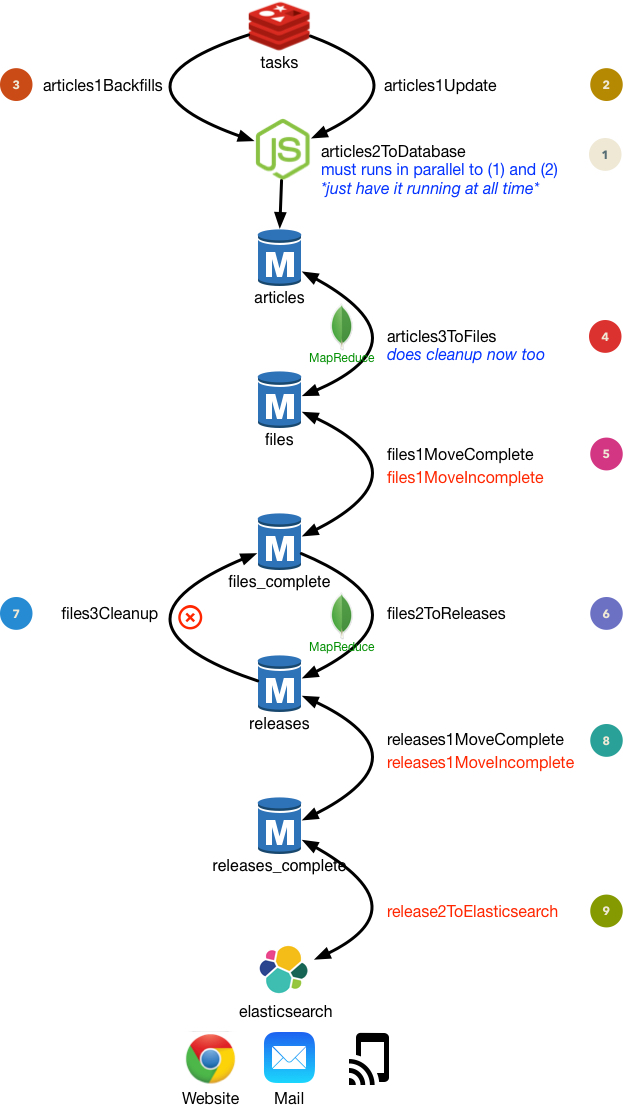
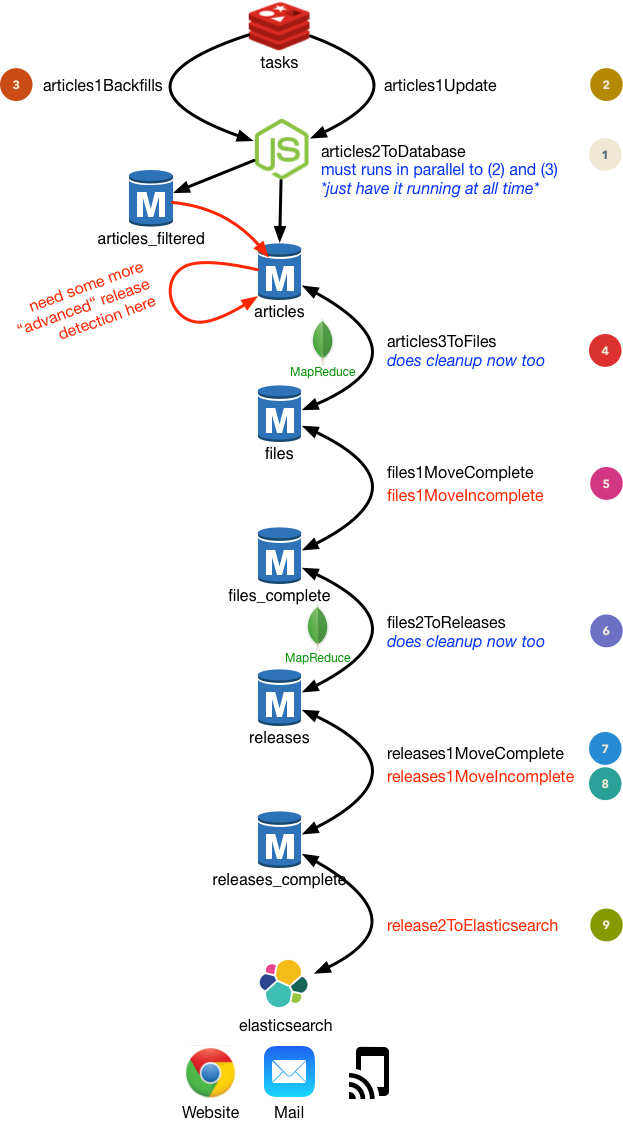
got rid of cleanup scripts

diff --git a/files2ToReleases.js b/files2ToReleases.js
@@ -1,9 +1,11 @@
+require('./lib/config');
 require('./lib/logger'); // configure global logger
 const log = global.log.child({
 	file: __filename.split(/[\\/]/).pop()
 });
 const database = require('./lib/database');
 let mongoclient;
+const started = new Date();
 
 function mapper() {
 	var mapObject = {
@@ -42,6 +44,7 @@ function reducer(key, values) {
 
 function finalizer(key, reducedObject) {
 	reducedObject.filecount = reducedObject.files.length;
+	reducedObject.modified = new Date();
 	return reducedObject;
 };
 
@@ -76,12 +79,56 @@ database.connect(function (db) {
 function done(err, resultcollection) {
 	log.info('Finished: mapReduce');
 	if (err) {
-		return console.log(err)
-	};
+		return log.error('ERROR!!!', err);
+	}
 	if (resultcollection) {
-		resultcollection.count(function (err, count) {
-			log.info('Result: created', count, 'releases');
-			mongoclient.close();
-		});
+		return cleanup(resultcollection);
 	}
 }
+
+function cleanup(resultcollection) {
+	resultcollection.count(function (err, count) {
+		if (err) {
+			return log.error(error);
+		}
+		let deletes = [];
+		log.info('Result: created/updateted', count, 'files');
+		log.info('Starting: cleanup');
+		let test = 0;
+		if (count > 0) {
+			const cursor = resultcollection.find({
+				'value.modified': {
+					$gte: started
+				}
+			});
+			cursor.forEach(function (release) {
+				release.value.files.forEach((file) => {
+					test++;
+					deletes.push({
+						deleteOne: {
+							filter: {
+								_id: file._id
+							}
+						}
+					})
+				});
+			}, function (error, result) {
+				log.info(`Cleanup: found ${deletes.length} to be deleted`);
+				if (deletes.length > 0) {
+					mongoclient.collection('files_complete').bulkWrite(deletes, {
+						ordered: false
+					}, function (error, result) {
+						if (err) return log.error(error);
+						log.info('Result: deleted', result.nRemoved);
+						return mongoclient.close();
+					});
+				} else {
+					log.info('Result: deleted', 0);
+					return mongoclient.close();
+				}
+			});
+		} else {
+			return log.info('Finished: cleanup');
+		}
+	});
+};

diff --git a/articles3ToFiles.js b/articles3ToFiles.js
@@ -51,16 +51,6 @@ function finalizer(key, reducedObject) {
 	return reducedObject;
 };
 
-function done(err, resultcollection) {
-	log.info('Finished: mapReduce');
-	if (err) {
-		return log.error('ERROR!!!', err);
-	};
-	if (resultcollection) {
-		return cleanup(resultcollection);
-	}
-}
-
 database.connect(function (db) {
 
 	mongoclient = db;
@@ -91,6 +81,16 @@ database.connect(function (db) {
 	});
 });
 
+function done(err, resultcollection) {
+	log.info('Finished: mapReduce');
+	if (err) {
+		return log.error('ERROR!!!', err);
+	}
+	if (resultcollection) {
+		return cleanup(resultcollection);
+	}
+}
+
 function cleanup(resultcollection) {
 	resultcollection.count(function (err, count) {
 		if (err) {
@@ -108,13 +108,6 @@ function cleanup(resultcollection) {
 			});
 			cursor.forEach(function (file) {
 				const key = file.value.parts[0].key;
-				// deletes.push({
-				// 	deleteMany: {
-				// 		filter: {
-				// 			key: key
-				// 		}
-				// 	}
-				// });
 				file.value.parts.forEach((part) => {
 					test++;
 					deletes.push({

diff --git a/createCollections.js b/createCollections.js
@@ -113,6 +113,15 @@ const indexes = {
 		keys: {
 			"key": 1
 		}
+	}, {
+		options: {
+			name: 'modified',
+			unique: false,
+			background: false
+		},
+		keys: {
+			"value.modified": 1
+		}
 	}],
 	releases_complete: [{
 		options: {
